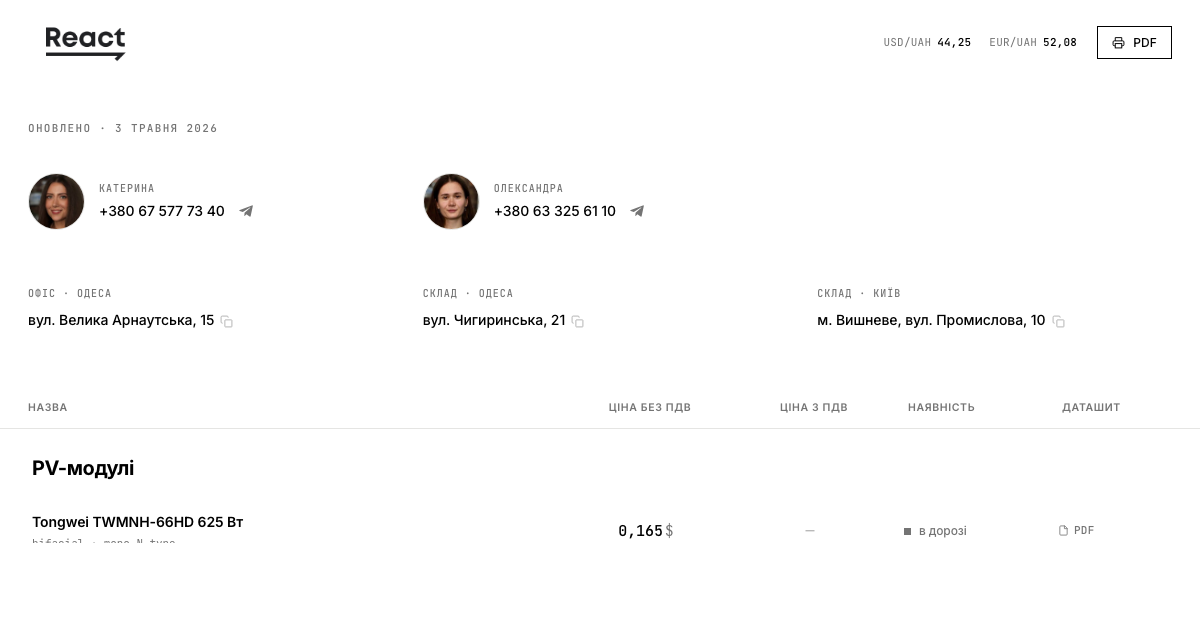
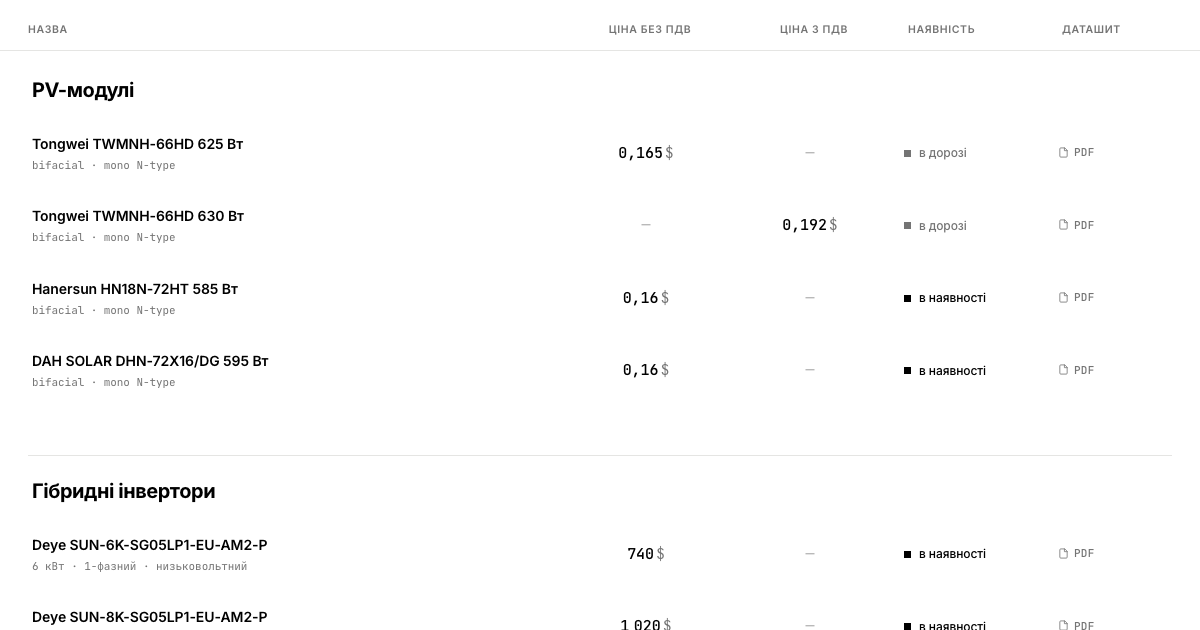
OG: скріншот починається з товарів (PV-модулі + інвертори з цінами)

diff --git a/index.html b/index.html
@@ -11,12 +11,12 @@
 <meta property="og:site_name" content="React">
 <meta property="og:url" content="https://react.ink/">
 <meta property="og:title" content="React прайс">
-<meta property="og:image" content="https://react.ink/assets/og-image.png?v=2">
+<meta property="og:image" content="https://react.ink/assets/og-image.png?v=3">
 <meta property="og:image:width" content="1200">
 <meta property="og:image:height" content="630">
 <meta name="twitter:card" content="summary_large_image">
 <meta name="twitter:title" content="React прайс">
-<meta name="twitter:image" content="https://react.ink/assets/og-image.png?v=2">
+<meta name="twitter:image" content="https://react.ink/assets/og-image.png?v=3">
 <link rel="preconnect" href="https://fonts.googleapis.com">
 <link rel="preconnect" href="https://fonts.gstatic.com" crossorigin>
 <link href="https://fonts.googleapis.com/css2?family=Inter:wght@400;500;600;700;800&family=JetBrains+Mono:wght@400;500&display=swap" rel="stylesheet">
